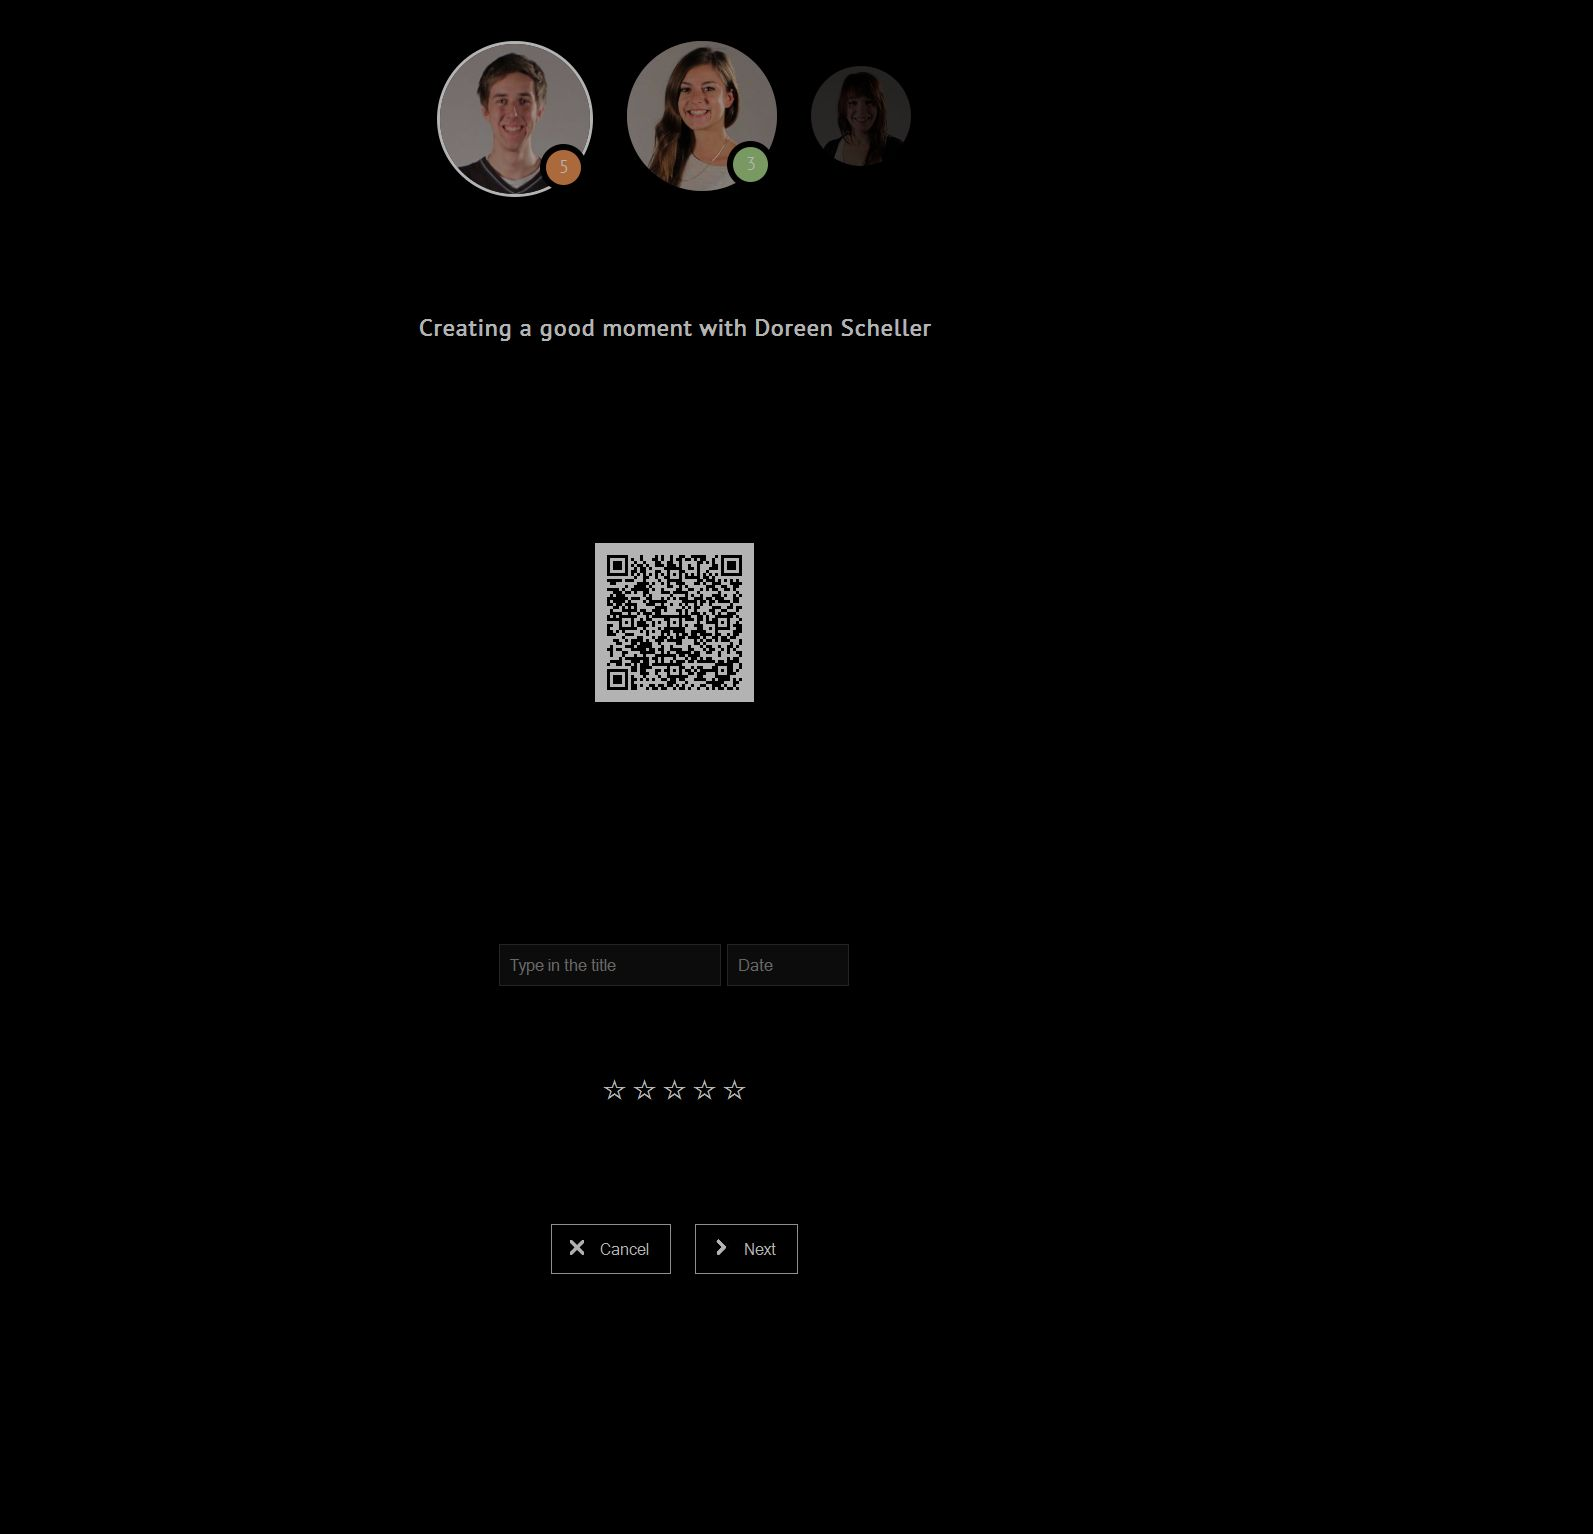
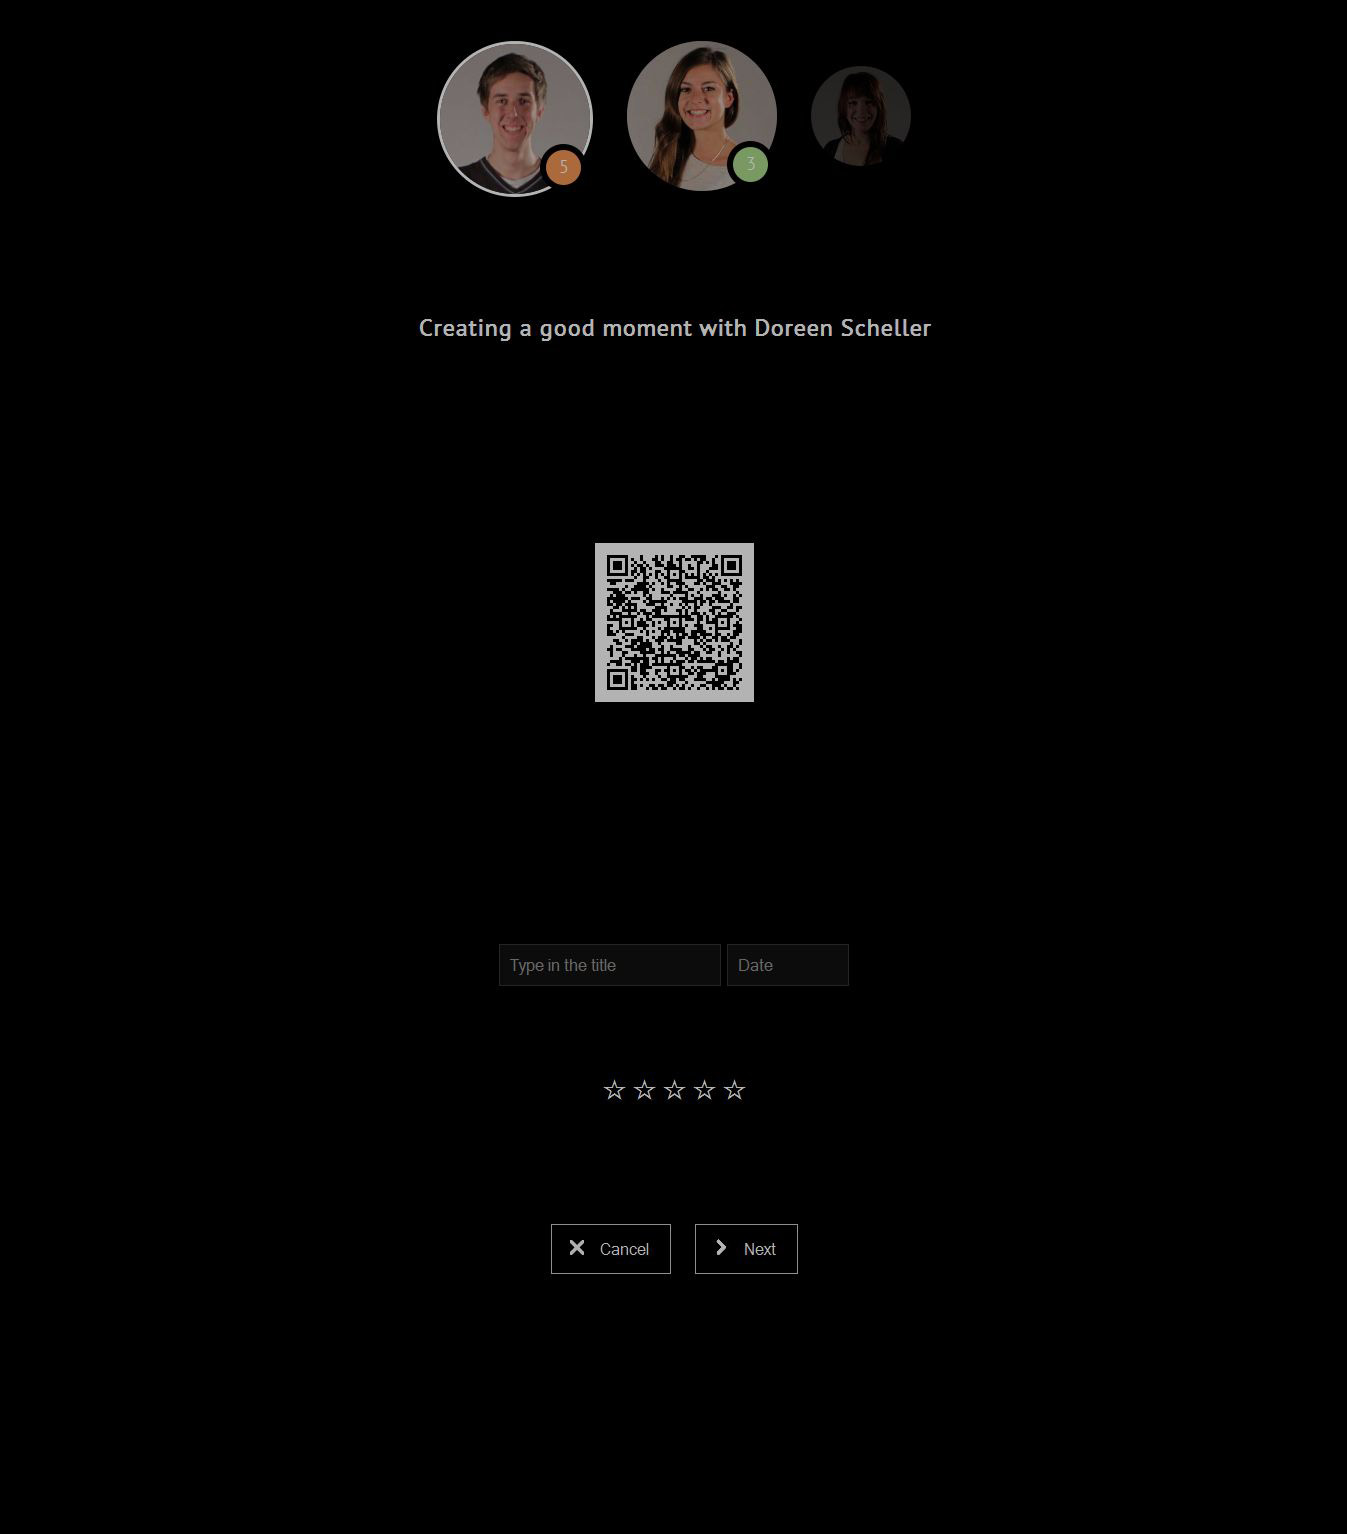
bg image and state fix

diff --git a/Doku/Doku P3/conflict_state1.html b/Doku/Doku P3/conflict_state1.html
@@ -11,7 +11,7 @@
 
 </script>
 </head>
-<body style="background:url('./Bilder/_MG_8030.JPG') no-repeat fixed center center;">
+<body>
 
 	<div id="kopfleiste">
 		<img src="Bilder/Logo grownect.png" height="60" style="margin-left:20px">

diff --git a/Doku/Doku P3/conflict_state10.html b/Doku/Doku P3/conflict_state10.html
@@ -11,7 +11,7 @@
 
 </script>
 </head>
-<body style="background:url('./Bilder/_MG_8030.JPG') no-repeat fixed center center;">
+<body>
 
 	<div id="kopfleiste">
 		<img src="Bilder/Logo grownect.png" height="60" style="margin-left:20px">

diff --git a/Doku/Doku P3/conflict_state11.html b/Doku/Doku P3/conflict_state11.html
@@ -11,7 +11,7 @@
 
 </script>
 </head>
-<body style="background:url('./Bilder/_MG_8030.JPG') no-repeat fixed center center;">
+<body>
 
 	<div id="kopfleiste">
 		<img src="Bilder/Logo grownect.png" height="60" style="margin-left:20px">

diff --git a/Doku/Doku P3/conflict_state12.html b/Doku/Doku P3/conflict_state12.html
@@ -11,7 +11,7 @@
 
 </script>
 </head>
-<body style="background:url('./Bilder/_MG_8030.JPG') no-repeat fixed center center;">
+<body>
 
 	<div id="kopfleiste">
 		<img src="Bilder/Logo grownect.png" height="60" style="margin-left:20px">

diff --git a/Doku/Doku P3/conflict_state13.html b/Doku/Doku P3/conflict_state13.html
@@ -11,7 +11,7 @@
 
 </script>
 </head>
-<body style="background:url('./Bilder/_MG_8030.JPG') no-repeat fixed center center;">
+<body>
 
 	<div id="kopfleiste">
 		<img src="Bilder/Logo grownect.png" height="60" style="margin-left:20px">

diff --git a/Doku/Doku P3/conflict_state14.html b/Doku/Doku P3/conflict_state14.html
@@ -11,7 +11,7 @@
 
 </script>
 </head>
-<body style="background:url('./Bilder/_MG_8030.JPG') no-repeat fixed center center;">
+<body>
 
 	<div id="kopfleiste">
 		<img src="Bilder/Logo grownect.png" height="60" style="margin-left:20px">

diff --git a/Doku/Doku P3/conflict_state15.html b/Doku/Doku P3/conflict_state15.html
@@ -11,7 +11,7 @@
 
 </script>
 </head>
-<body style="background:url('./Bilder/_MG_8030.JPG') no-repeat fixed center center;">
+<body>
 
 	<div id="kopfleiste">
 		<img src="Bilder/Logo grownect.png" height="60" style="margin-left:20px">

diff --git a/Doku/Doku P3/conflict_state16.html b/Doku/Doku P3/conflict_state16.html
@@ -11,7 +11,7 @@
 
 </script>
 </head>
-<body style="background:url('./Bilder/_MG_8030.JPG') no-repeat fixed center center;">
+<body>
 
 	<div id="kopfleiste">
 		<img src="Bilder/Logo grownect.png" height="60" style="margin-left:20px">

diff --git a/Doku/Doku P3/conflict_state2.html b/Doku/Doku P3/conflict_state2.html
@@ -11,7 +11,7 @@
 
 </script>
 </head>
-<body style="background:url('./Bilder/_MG_8030.JPG') no-repeat fixed center center;">
+<body>
 
 	<div id="kopfleiste">
 		<img src="Bilder/Logo grownect.png" height="60" style="margin-left:20px">

diff --git a/Doku/Doku P3/conflict_state3.html b/Doku/Doku P3/conflict_state3.html
@@ -11,7 +11,7 @@
 
 </script>
 </head>
-<body style="background:url('./Bilder/_MG_8030.JPG') no-repeat fixed center center;">
+<body>
 
 	<div id="kopfleiste">
 		<img src="Bilder/Logo grownect.png" height="60" style="margin-left:20px">

diff --git a/Doku/Doku P3/conflict_state4.html b/Doku/Doku P3/conflict_state4.html
@@ -11,7 +11,7 @@
 
 </script>
 </head>
-<body style="background:url('./Bilder/_MG_8030.JPG') no-repeat fixed center center;">
+<body>
 
 	<div id="kopfleiste">
 		<img src="Bilder/Logo grownect.png" height="60" style="margin-left:20px">

diff --git a/Doku/Doku P3/conflict_state5.html b/Doku/Doku P3/conflict_state5.html
@@ -11,7 +11,7 @@
 
 </script>
 </head>
-<body style="background:url('./Bilder/_MG_8030.JPG') no-repeat fixed center center;">
+<body>
 
 	<div id="kopfleiste">
 		<img src="Bilder/Logo grownect.png" height="60" style="margin-left:20px">
